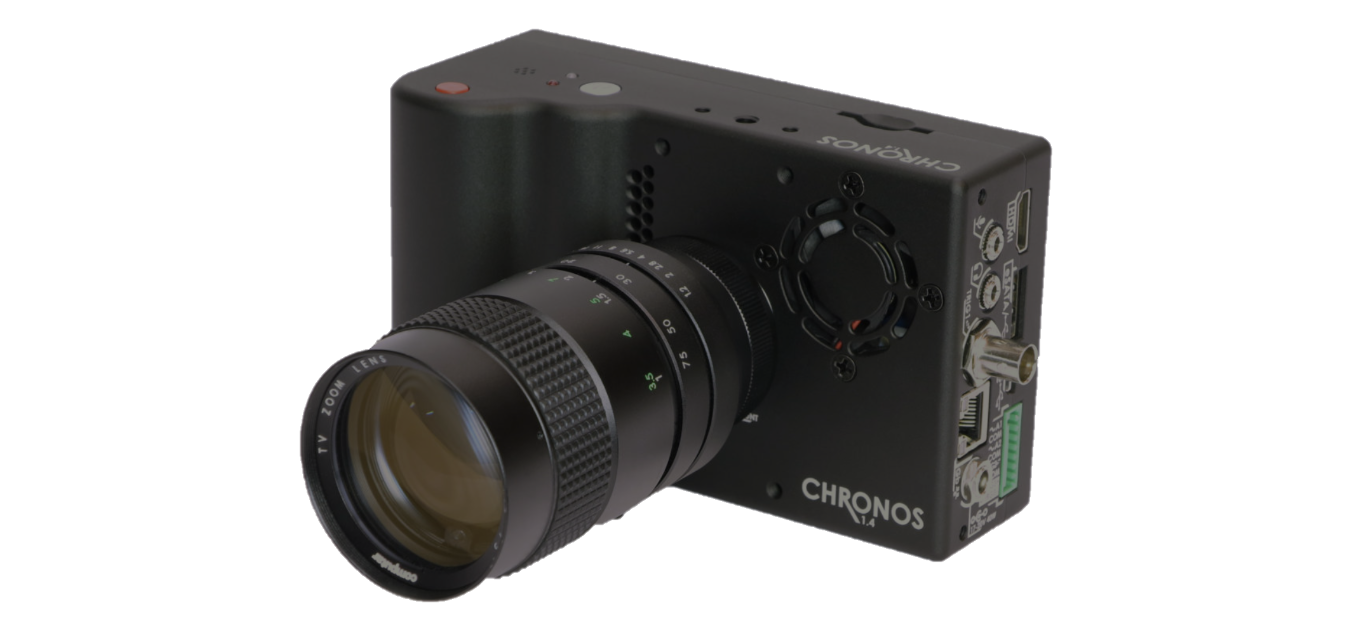
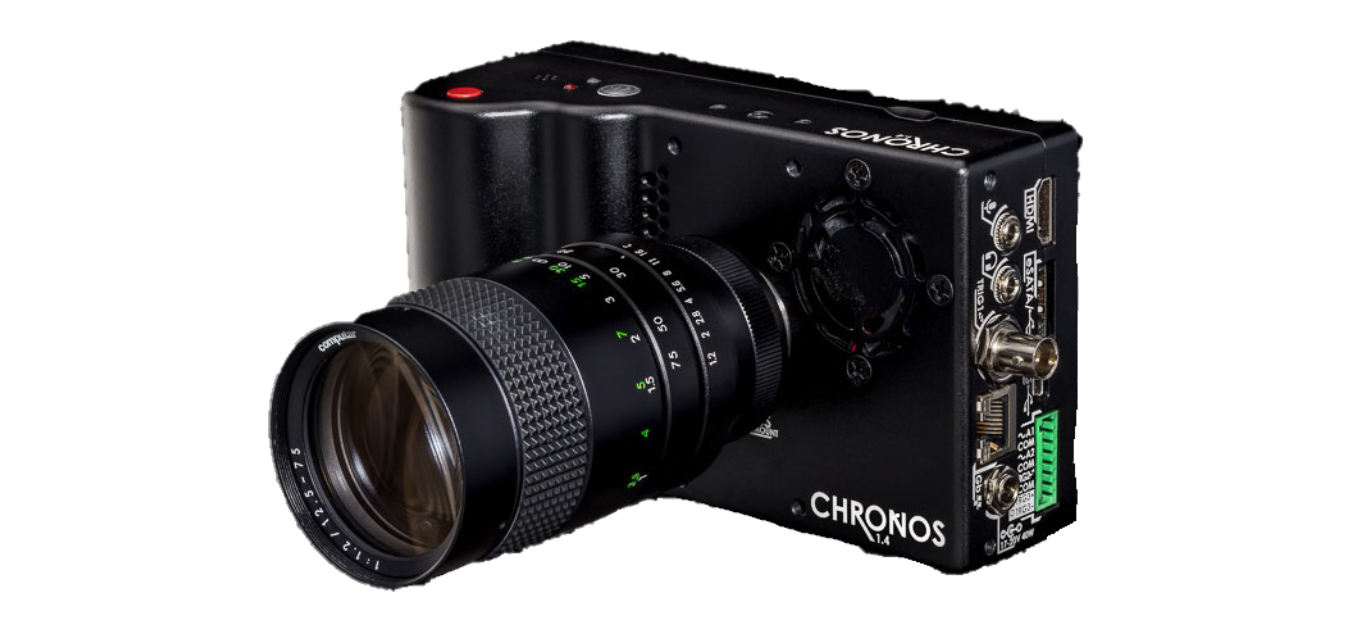
camera changed

Changed region(s): [[0.1867, 0.0302, 0.8089, 0.9666], [0.56, 0.2719, 0.5911, 0.3021]]

diff --git a/TestBootStrap/Styles/Page1Style.css b/TestBootStrap/Styles/Page1Style.css
@@ -34,7 +34,7 @@ body, html {
     .landingpage .image {
         z-index: 0;
         height: 100%;
-        background: url(/Images/kron-camera-black_v2.png);
+        background: url('/Images/Chronos_ 1.4_3.png');
         background-attachment: fixed;
         background-position: center;
         background-size: cover;
@@ -60,7 +60,7 @@ body, html {
     }
 
         .landingpage .flex-item-a:hover {
-            color: red;
+            color: lightgreen;
         }
 
 /*Feature Page Section*/
@@ -141,16 +141,13 @@ Extra (xl) large devices (large desktops, 1200px and up)
 
 @media (min-width: 768px) {
 
-    .landingpage .image {
-        transform: translateX(15%);
-    }
-
     .landingpage .flex-item-h1 {
         color: white;
-        top: 50%;
+        background-color: rgba(0,0,0,0.2);
+        top: 35%;
         z-index: 2;
-        font-size: 4.5rem;
-        color: lightgreen;
+        font-size: 7.5rem;
+        color: white;
         padding: .3rem 1.5rem;
         margin-left: 1rem;
     }
@@ -160,7 +157,7 @@ Extra (xl) large devices (large desktops, 1200px and up)
         bottom: 2%;
         text-decoration: none;
         font-size: 1.5rem;
-        color: lightgreen;
+        color: white;
         z-index: 2;
     }
 
@@ -176,7 +173,7 @@ Extra (xl) large devices (large desktops, 1200px and up)
                 height: 100%;
                 width: 100%;
                 padding: 0;
-                width: 1000px;
+                width: 1200px;
                 height: 600px;
             }
 

diff --git a/TestBootStrap/Page1.html b/TestBootStrap/Page1.html
@@ -54,7 +54,7 @@
         <div class="image p-0"> </div>
         <div class="container-fluid h-100 p-0">
             <div class="d-flex flex-column align-items-center h-100">
-                <h1 class="flex-item-h1 position-absolute align-self-start text-uppercase">Chronos 1.4</h1>
+                <h1 class="flex-item-h1 position-absolute align-self-center text-uppercase">Chronos 1.4</h1>
                 <a class="flex-item-a d-flex flex-column position-absolute" href="#feature">
                     Scroll Down
                     <br />
